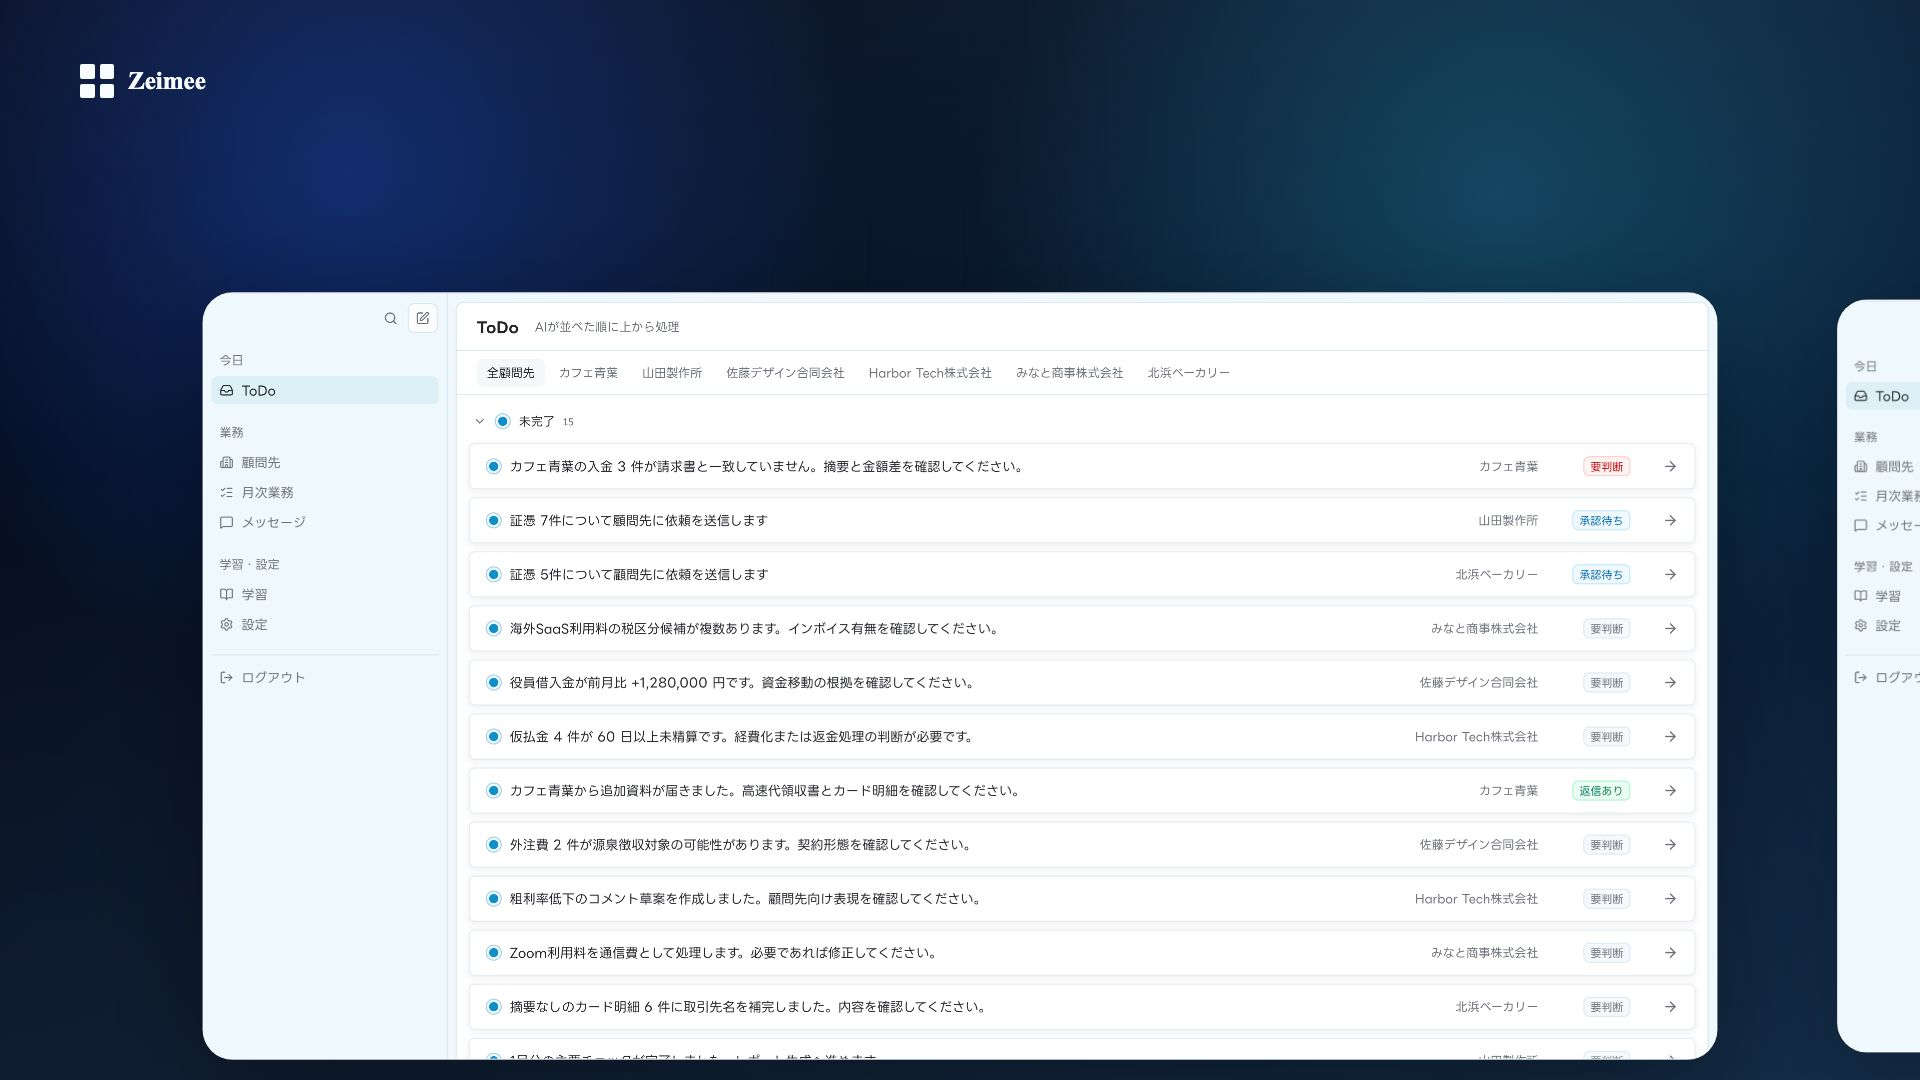
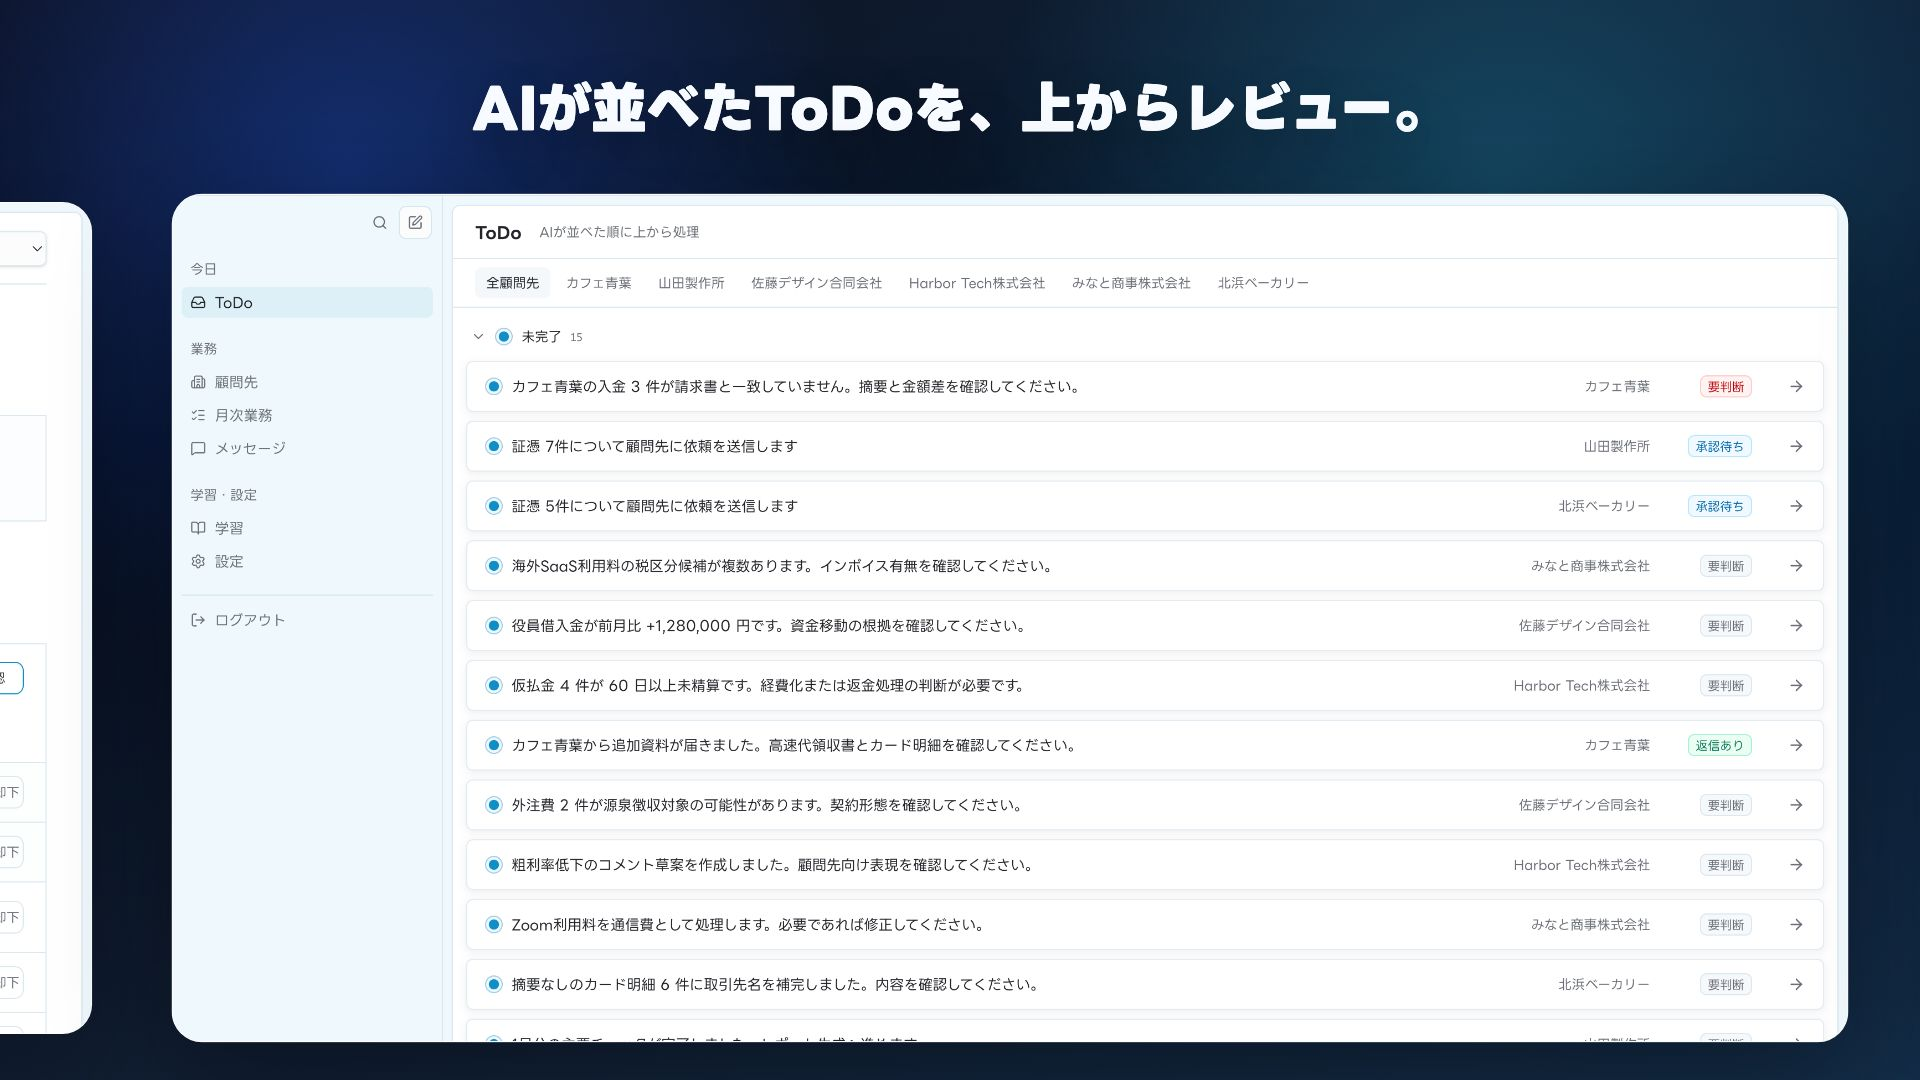
Refine hero UI loop video

diff --git a/src/remotion/hero/HeroUiFlow.tsx b/src/remotion/hero/HeroUiFlow.tsx
@@ -8,9 +8,9 @@ import {
 } from "remotion";
 
 const fontFamily = "'LINE Seed JP'";
-const slideWidth = 1500;
-const slideHeight = 760;
-const slideStep = 1620;
+const slideWidth = 1660;
+const slideHeight = 840;
+const slideStep = 1740;
 
 const slides = [
   {
@@ -45,40 +45,6 @@ function rangeOpacity(frame: number, start: number, end: number, fade = 28) {
     extrapolateRight: "clamp",
   });
   return Math.min(intro, outro);
-}
-
-function BrandMark() {
-  return (
-    <div
-      style={{
-        position: "absolute",
-        left: 80,
-        top: 64,
-        display: "flex",
-        alignItems: "center",
-        gap: 14,
-        color: "#f8fbff",
-        fontFamily,
-        fontSize: 25,
-        fontWeight: 900,
-      }}
-    >
-      <div
-        style={{
-          width: 34,
-          height: 34,
-          display: "grid",
-          gridTemplateColumns: "1fr 1fr",
-          gap: 5,
-        }}
-      >
-        {[0, 1, 2, 3].map((item) => (
-          <div key={item} style={{ background: "#f8fbff", borderRadius: 2 }} />
-        ))}
-      </div>
-      Zeimee
-    </div>
-  );
 }
 
 function Background() {
@@ -116,7 +82,7 @@ function Background() {
 function PromptPill() {
   const frame = useCurrentFrame();
   const prompts = [
-    { text: slides[0].prompt, start: 0, end: 300 },
+    { text: slides[0].prompt, start: 0, end: 300, loopIn: true },
     { text: slides[1].prompt, start: 300, end: 600 },
     { text: slides[2].prompt, start: 600, end: 900 },
   ];
@@ -128,19 +94,24 @@ function PromptPill() {
           key={prompt.text}
           style={{
             position: "absolute",
-            left: 310,
-            right: 310,
-            top: 126,
+            left: 260,
+            right: 260,
+            top: 62,
             display: "flex",
             alignItems: "center",
             justifyContent: "center",
             color: "#f8fbff",
             fontFamily,
-            fontSize: 50,
+            fontSize: 54,
             lineHeight: 1.18,
             fontWeight: 900,
             letterSpacing: 0,
-            opacity: rangeOpacity(frame, prompt.start, prompt.end, 30),
+            opacity: prompt.loopIn
+              ? Math.max(
+                  frame < 270 ? 1 : rangeOpacity(frame, prompt.start, prompt.end, 30),
+                  rangeOpacity(frame, 870, 900, 30),
+                )
+              : rangeOpacity(frame, prompt.start, prompt.end, 30),
             transform: `translateY(${smooth(frame, [prompt.start, prompt.start + 40], [14, 0])}px)`,
             textShadow: "0 18px 48px rgba(0, 0, 0, 0.34)",
           }}
@@ -160,7 +131,7 @@ function SlidePanel({
   index: number;
 }) {
   const frame = useCurrentFrame();
-  const distanceFromActive = Math.abs(index * 300 - frame);
+  const distanceFromActive = Math.abs((index - 1) * 300 - frame);
   const glow = interpolate(distanceFromActive, [0, 180, 300], [1, 0.45, 0.22], {
     extrapolateLeft: "clamp",
     extrapolateRight: "clamp",
@@ -170,7 +141,7 @@ function SlidePanel({
     <div
       style={{
         position: "absolute",
-        left: index * slideStep,
+        left: (index - 1) * slideStep,
         top: 0,
         width: slideWidth,
         height: slideHeight,
@@ -212,8 +183,8 @@ function UiCarousel() {
     <div
       style={{
         position: "absolute",
-        left: 210,
-        top: 296,
+        left: 180,
+        top: 198,
         width: slideWidth,
         height: slideHeight,
         overflow: "visible",
@@ -224,13 +195,13 @@ function UiCarousel() {
           position: "absolute",
           left: trackX,
           top: 0,
-          width: slideStep * 4,
+          width: slideStep * 5,
           height: slideHeight,
           display: "flex",
           gap: slideStep - slideWidth,
         }}
       >
-        {[...slides, slides[0]].map((slide, index) => (
+        {[slides[2], ...slides, slides[0]].map((slide, index) => (
           <SlidePanel key={`${slide.src}-${index}`} slide={slide} index={index} />
         ))}
       </div>
@@ -242,7 +213,6 @@ export function HeroUiFlow() {
   return (
     <AbsoluteFill>
       <Background />
-      <BrandMark />
       <PromptPill />
       <UiCarousel />
     </AbsoluteFill>

diff --git a/src/app/lp/page.tsx b/src/app/lp/page.tsx
@@ -204,11 +204,11 @@ function HeroVisual() {
         loop
         muted
         playsInline
-        poster="/images/hero-ui-flow-poster.jpg?v=line-seed-jp-v1"
+        poster="/images/hero-ui-flow-poster.jpg?v=loop-large-ui-v1"
         preload="metadata"
         aria-hidden="true"
       >
-        <source src="/videos/hero-ui-flow-hq.mp4?v=line-seed-jp-v1" type="video/mp4" />
+        <source src="/videos/hero-ui-flow-hq.mp4?v=loop-large-ui-v1" type="video/mp4" />
       </video>
       <Image
         src="/images/hero-ui-flow-poster.jpg"